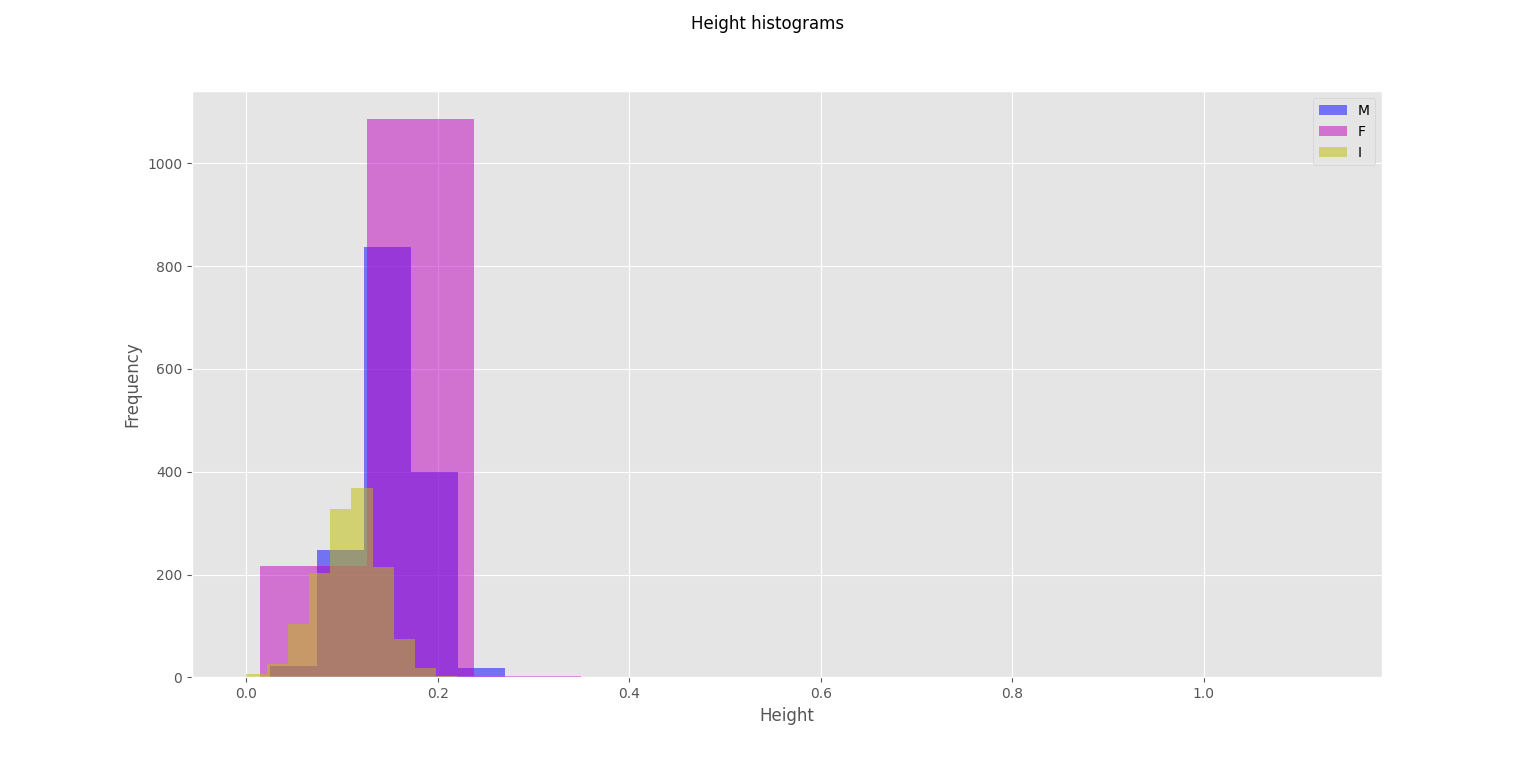
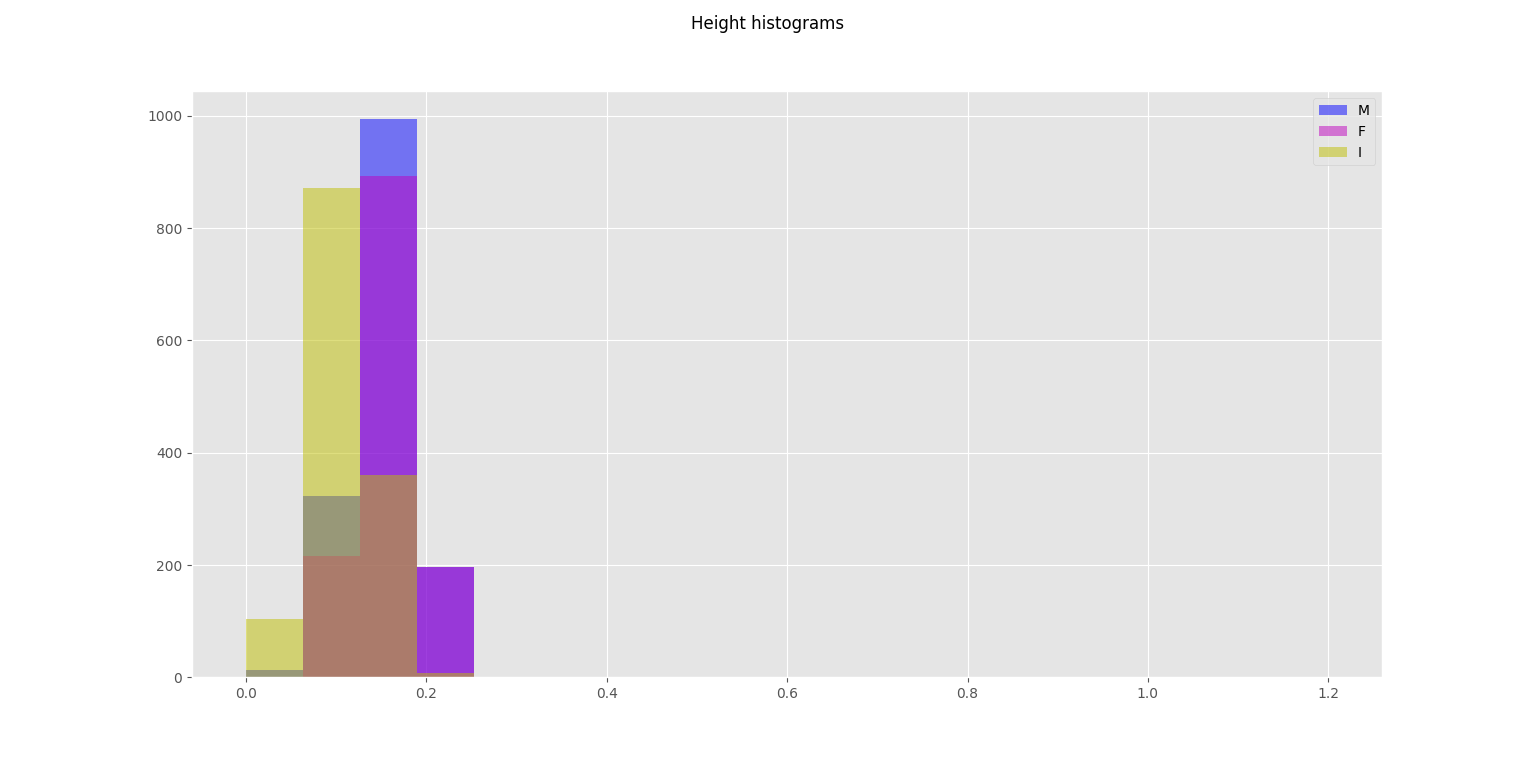
Consertando bugs

diff --git a/Homework 1/class_conditional_mono_variate_plotting.py b/Homework 1/class_conditional_mono_variate_plotting.py
@@ -1,6 +1,7 @@
 import pandas as pd
 import matplotlib.pyplot as plt
 import os
+import numpy as np
 
 plt.style.use('ggplot')
 
@@ -57,9 +58,10 @@ predictors_histogram_plot(df_infant, infant_axs, 'y')
 fig3.tight_layout()
 fig3.suptitle('Infant mono-variate histograms')
 
-histogram_plot(df_male["Height"], ax, 'b')
-histogram_plot(df_female["Height"], ax, 'm')
-histogram_plot(df_infant["Height"], ax, 'y')
+bins = np.linspace(0, 1.2, 20)
+ax.hist(df_male["Height"], bins, alpha=0.5, color='b')
+ax.hist(df_female["Height"], bins, alpha=0.5, color='m')
+ax.hist(df_infant["Height"], bins, alpha=0.5, color='y')
 fig4.suptitle('Height histograms')
 targets = ['M', 'F', 'I']
 ax.legend(targets)
